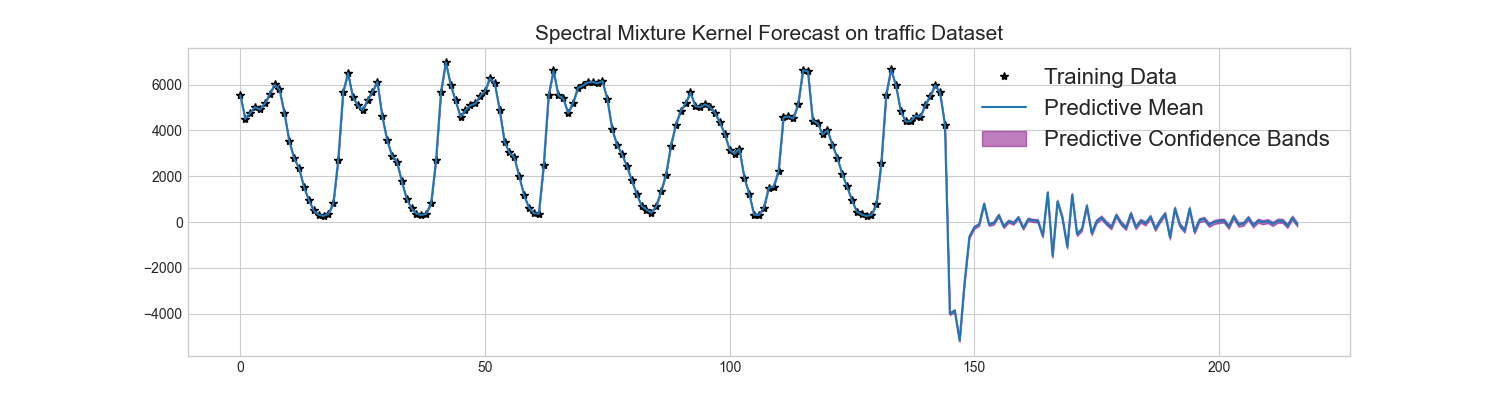
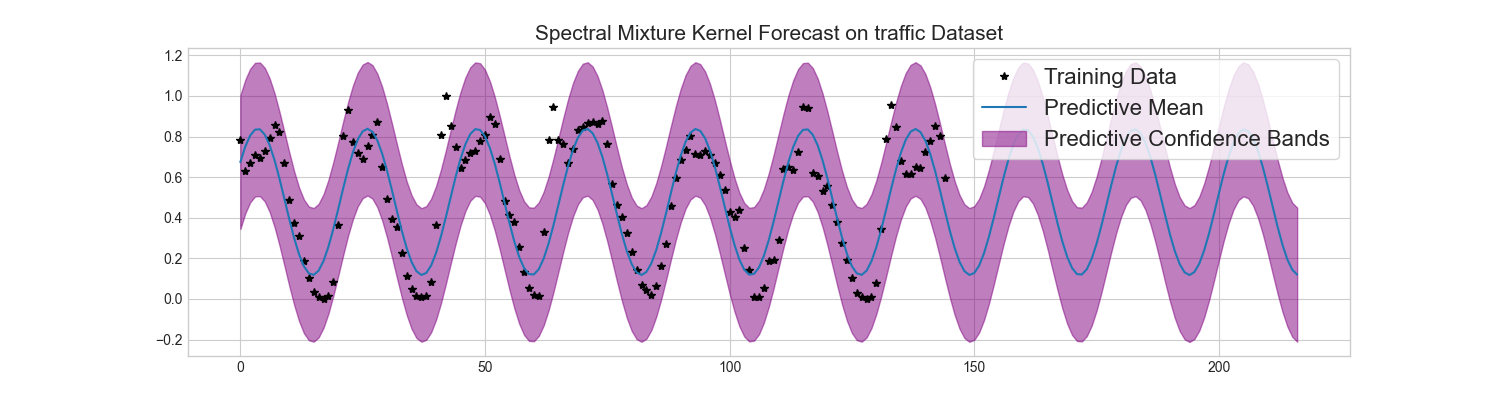
scaled data and changed covar initialization

diff --git a/main.py b/main.py
@@ -6,6 +6,8 @@ import matplotlib
 from matplotlib import pyplot as plt
 from deepkl.models import SpectralMixtureGPModel
 from deepkl.trainers import SpectralMixtureTrainer
+from sklearn.preprocessing import MinMaxScaler
+
 plt.style.use('seaborn-whitegrid')
 matplotlib.use('Agg')
 
@@ -17,11 +19,17 @@ def prepare_data():
     train_x = traffic['traffic_volume'].loc[:144].index.values
     train_y = traffic['traffic_volume'].loc[:144].values
 
-    train_x = torch.stack([torch.from_numpy(np.array(i)) for i in train_x]).double()
-    train_y = torch.stack([torch.from_numpy(np.array(i)) for i in train_y]).double()
-
     validate_x = traffic['traffic_volume'].loc[145:].index.values
     validate_y = traffic['traffic_volume'].loc[145:].values
+
+    
+    # minmax scale the data
+    mm = MinMaxScaler()
+    train_y = mm.fit_transform(train_y.reshape(-1,1)).ravel()
+    validate_y = mm.transform(validate_y.reshape(-1,1)).ravel()
+
+    train_x = torch.stack([torch.from_numpy(np.array(i)) for i in train_x]).double()
+    train_y = torch.stack([torch.from_numpy(np.array(i)) for i in train_y]).double()
 
     validate_x = torch.stack([torch.from_numpy(np.array(i)) for i in validate_x]).double()
     validate_y = torch.stack([torch.from_numpy(np.array(i)) for i in validate_y]).double()
@@ -34,9 +42,9 @@ def test_spectral_mixture():
     (train_x, train_y), (validate_x, validate_y) = prepare_data()
     
     likelihood = gpytorch.likelihoods.GaussianLikelihood()
-    model = SpectralMixtureGPModel(train_x, train_y, num_mixtures=6, likelihood=likelihood)
+    model = SpectralMixtureGPModel(train_x, train_y, num_mixtures=2, likelihood=likelihood)
     
-    trainer = SpectralMixtureTrainer(model, likelihood, lr=0.01)
+    trainer = SpectralMixtureTrainer(model, likelihood, lr=0.1)
     trainer.train_batch(train_x, train_y, epochs=100)
     
     posterior_model, posterior_likelihood = trainer.model, trainer.likelihood
@@ -57,7 +65,7 @@ def test_spectral_mixture():
                         alpha=0.5, label='Predictive Confidence Bands')
         
         ax.set_title("Spectral Mixture Kernel Forecast on traffic Dataset", size=15)
-        ax.legend(loc='best', fontsize=16, facecolor='white', framealpha=0.5)
+        ax.legend(loc='best', fontsize=16, facecolor='white', framealpha=0.8, frameon=True)
         
         fig.savefig('figs/sm_traffic_forecast.png')
     

diff --git a/deepkl/models.py b/deepkl/models.py
@@ -20,7 +20,8 @@ class SpectralMixtureGPModel(gpytorch.models.ExactGP):
         super(SpectralMixtureGPModel, self).__init__(train_x, train_y, likelihood)
         self.mean_module = gpytorch.means.ConstantMean()
         self.covar_module = gpytorch.kernels.SpectralMixtureKernel(num_mixtures=num_mixtures)
-        self.covar_module.initialize_from_data(train_x, train_y)
+        #self.covar_module.initialize_from_data(train_x, train_y)
+        self.covar_module.initialize_from_data_empspect(train_x, train_y)
 
     def forward(self, x):
         mean_x = self.mean_module(x)
